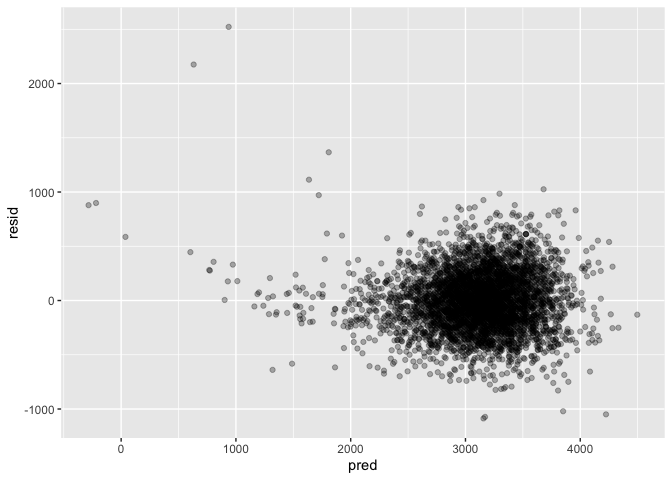
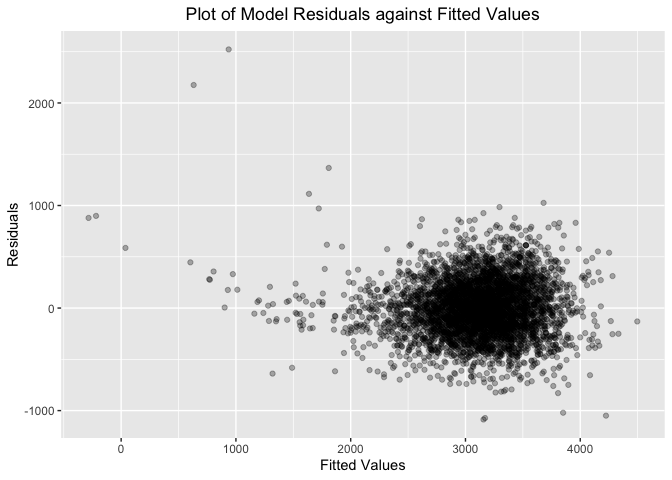
problem 2 and organize plot

diff --git a/p8105_hw6_cw3370.md b/p8105_hw6_cw3370.md
@@ -10,19 +10,6 @@ Data Description
 
 ``` r
 birthweight <- read_csv("data/birthweight.csv")  
-```
-
-    ## Rows: 4342 Columns: 20
-
-    ## ── Column specification ────────────────────────────────────────────────────────
-    ## Delimiter: ","
-    ## dbl (20): babysex, bhead, blength, bwt, delwt, fincome, frace, gaweeks, malf...
-
-    ## 
-    ## ℹ Use `spec()` to retrieve the full column specification for this data.
-    ## ℹ Specify the column types or set `show_col_types = FALSE` to quiet this message.
-
-``` r
 skimr::skim(birthweight)
 ```
 
@@ -91,8 +78,10 @@ Describe your modeling process and show a plot of model residuals
 against fitted values – use add\_predictions and add\_residuals in
 making this plot.**
 
-l used backward elimination to get the model, the variable are babysex,
-bhead, blength, delwt, fincome, gaweeks, mheight, ppwt, smoken
+l used backward elimination to get the model, all the variable of which
+p value is larger than 0.05 are deleted.The variable left are `babysex`,
+`bhead`, `blength`, `delwt`, `fincome`, `gaweeks`, `mheight`, `ppwt`,
+`smoken`
 
 ``` r
 mult.fit = lm(bwt ~ ., data = birthweight_df)
@@ -129,6 +118,8 @@ step10 = update(step9, . ~ . -parity)
 summary(step10)
 ```
 
+This is the plot of model residutals against fitted value.
+
 ``` r
 fit <- lm(bwt ~ babysex + bhead + blength + delwt + fincome + gaweeks + mheight + ppwt + smoken, data =birthweight_df)
 
@@ -136,10 +127,76 @@ birthweight_df %>%
   modelr::add_residuals(fit) %>%
   modelr::add_predictions(fit) %>%
   ggplot(aes(x = pred, y = resid)) +
-  geom_point(alpha = 0.3)
+  geom_point(alpha = 0.3) +
+  labs(title = "Plot of Model Residuals against Fitted Values", 
+       x = "Fitted Values",
+       y = "Residuals"
+  ) +  
+  theme(plot.title = element_text(hjust = 0.5))
 ```
 
 ![](p8105_hw6_cw3370_files/figure-gfm/unnamed-chunk-4-1.png)<!-- -->
+
+**Compare your model to two others:**
+
+(1)One using length at birth and gestational age as predictors (main
+effects only)
+
+(2)One using head circumference, length, sex, and all interactions
+(including the three-way interaction) between these
+
+**Make this comparison in terms of the cross-validated prediction error;
+use crossv\_mc and functions in purrr as appropriate.**
+
+This is the plot of Plot of Model Residuals against Fitted Values for my
+models and other comparisions.
+
+``` r
+fit1 <- lm(bwt ~ babysex + bhead + blength + delwt + fincome + gaweeks + mheight + ppwt + smoken, data = birthweight_df)
+fit2 <- lm(bwt ~ blength + gaweeks, data = birthweight_df)
+fit3 <- lm(bwt ~ bhead + blength + babysex + bhead*blength + bhead*babysex + blength*babysex + bhead*blength*babysex, data = birthweight_df)
+
+plot1 <- birthweight_df %>%
+  modelr::add_residuals(fit1) %>%
+  modelr::add_predictions(fit1) %>%
+  ggplot(aes(x = pred, y = resid)) +
+  geom_point(alpha = 0.1) +
+  labs(title = "Plot of Model Residuals against Fitted Values(My Model", 
+       x = "Fitted Values",
+       y = "Residuals"
+  ) +
+  theme(plot.title = element_text(hjust = 0.5))
+
+plot2 <- birthweight_df %>%
+  modelr::add_residuals(fit2) %>%
+  modelr::add_predictions(fit2) %>%
+  ggplot(aes(x = pred, y = resid)) +
+  geom_point(alpha = 0.1) +
+  labs(title = "Plot of Model Residuals against Fitted Values(Model 1)", 
+       x = "Fitted Values",
+       y = "Residuals"
+  ) +
+  theme(plot.title = element_text(hjust = 0.5))
+
+plot3 <- birthweight_df %>%
+  modelr::add_residuals(fit2) %>%
+  modelr::add_predictions(fit2) %>%
+  ggplot(aes(x = pred, y = resid)) +
+  geom_point(alpha = 0.1) +
+  labs(title = "Plot of Model Residuals against Fitted Values(Model 2)", 
+       x = "Fitted Values",
+       y = "Residuals"
+  ) +
+  theme(plot.title = element_text(hjust = 0.5))
+
+
+plot1/plot2/plot3
+```
+
+![](p8105_hw6_cw3370_files/figure-gfm/unnamed-chunk-5-1.png)<!-- -->
+
+This is the plot of Distribution of Prediction Error for my models and
+other comparisons.
 
 ``` r
 cv_df = 
@@ -166,12 +223,21 @@ cv_df %>%
     values_to = "rmse",
     names_prefix = "rmse_") %>% 
   mutate(model = fct_inorder(model)) %>% 
-  ggplot(aes(x = model, y = rmse)) + geom_violin()
+  ggplot(aes(x = model, y = rmse)) + 
+  geom_violin() +
+  scale_x_discrete(breaks = c("my","bl_ga","bh_bl_sex"),
+                   labels = c("My Model","Length and Gestational Age","Head Circumference, Length, Sex"))+
+  labs(title = "Distribution of Prediction Error")+
+  theme(plot.title = element_text(hjust = 0.5))
 ```
 
-![](p8105_hw6_cw3370_files/figure-gfm/unnamed-chunk-5-1.png)<!-- -->
+![](p8105_hw6_cw3370_files/figure-gfm/unnamed-chunk-6-1.png)<!-- -->
 
 # Problem 2
+
+**For this problem, we’ll use the 2017 Central Park weather data that
+we’ve seen elsewhere. The code chunk below (adapted from the course
+website) will download these data.**
 
 ``` r
 weather_df = 
@@ -187,15 +253,29 @@ weather_df =
   select(name, id, everything())
 ```
 
-    ## Registered S3 method overwritten by 'hoardr':
-    ##   method           from
-    ##   print.cache_info httr
+**The boostrap is helpful when you’d like to perform inference for a
+parameter / value / summary that doesn’t have an easy-to-write-down
+distribution in the usual repeated sampling framework. We’ll focus on a
+simple linear regression with tmax as the response and tmin as the
+predictor, and are interested in the distribution of two quantities
+estimated from these data:**
 
-    ## using cached file: ~/Library/Caches/R/noaa_ghcnd/USW00094728.dly
+*r*<sup>2</sup>
 
-    ## date created (size, mb): 2021-09-09 10:44:54 (7.599)
+*l**o**g*(*β*<sub>0</sub> \* *β*<sub>1</sub>)
 
-    ## file min/max dates: 1869-01-01 / 2021-09-30
+**Use 5000 bootstrap samples and, for each bootstrap sample, produce
+estimates of these two quantities. Plot the distribution of your
+estimates, and describe these in words. Using the 5000 bootstrap
+estimates, identify the 2.5% and 97.5% quantiles to provide a 95%
+confidence interval for** *r*<sup>2</sup> **and**
+*l**o**g*(*β*<sub>0</sub> \* *β*<sub>1</sub>). **Note: broom::glance()
+is helpful for extracting** *r*<sup>2</sup> **from a fitted regression,
+and broom::tidy() (with some additional wrangling) should help in
+computing***l**o**g*(*β*<sub>0</sub> \* *β*<sub>1</sub>)
+
+This is the distribution of *r*<sup>2</sup> and
+*l**o**g*(*β*<sub>0</sub> \* *β*<sub>1</sub>)
 
 ``` r
 get_r <- function(fit){
@@ -228,20 +308,47 @@ boot_straps <-
   ) %>% 
   select(-strap,-models)
 
+
 boot_straps %>% 
-  ggplot(aes(x = r_squared))+
-  geom_density()
+  ggplot(aes(x = r_squared)) +
+  geom_density() +
+  labs(title = "Distribution of R squared", 
+       x = "R squared") +
+  stat_function(fun = dnorm, args = list(mean = mean(boot_straps$r_squared), sd = sd(boot_straps$r_squared)),aes(colour = "Red",alpha = 0.3))+
+  theme(legend.position = "none",
+        plot.title = element_text(hjust = 0.5))
 ```
 
-![](p8105_hw6_cw3370_files/figure-gfm/unnamed-chunk-7-1.png)<!-- -->
+![](p8105_hw6_cw3370_files/figure-gfm/unnamed-chunk-8-1.png)<!-- -->
 
 ``` r
 boot_straps %>% 
-  ggplot(aes(x = log))+
-  geom_density()
+  ggplot(aes(x = log)) +
+  geom_density() +
+  labs(title = "Distribution of log(B0 *B1)", 
+       x = "log(B0 *B1)") + 
+  stat_function(fun = dnorm, args = list(mean = mean(boot_straps$log), sd = sd(boot_straps$log)),aes(colour = "Red",alpha = 0.3))+
+  theme(legend.position = "none",
+        plot.title = element_text(hjust = 0.5))
 ```
 
-![](p8105_hw6_cw3370_files/figure-gfm/unnamed-chunk-7-2.png)<!-- -->
+![](p8105_hw6_cw3370_files/figure-gfm/unnamed-chunk-8-2.png)<!-- --> The
+median and mean of r\_squared is 0.9113949 and 0.9113949,the standard
+error of r\_squared is 0.0084951. According to the median, mean and
+plot, this distribution is almost symetric and look like normal
+distribution. I add a red normal distrbution with the mean and variance
+are equal to the mean and variance of r\_squared. Two curve are similar
+to each other.
+
+The median and mean of r\_squared is 0.8743045 and 0.8743045,the
+standard error of r\_squared is 0.0105136. According to the median, mean
+and plot, this distribution is almost symetric too and look like normal
+distribution. I add a red normal distrbution with the mean and variance
+are equal to themean and variance of log.Two curve are similar to each
+other.
+
+This is the 95% CI of *r*<sup>2</sup> and
+*l**o**g*(*β*<sub>0</sub> \* *β*<sub>1</sub>)
 
 ``` r
 boot_straps %>% 
@@ -254,17 +361,17 @@ boot_straps %>%
 
 |    r\_low |   r\_high |
 |----------:|----------:|
-| 0.8939115 | 0.9005186 |
+| 0.8944371 | 0.9001087 |
 
 ``` r
 boot_straps %>% 
   summarize(
     r_low = quantile(log,probs = c(0.025)),
     r_high = quantile(log,probs = c(0.0975))
-  )%>% 
+  ) %>% 
   knitr::kable()
 ```
 
 |    r\_low |   r\_high |
 |----------:|----------:|
-| 0.8531318 | 0.8604693 |
+| 0.8526396 | 0.8605944 |
